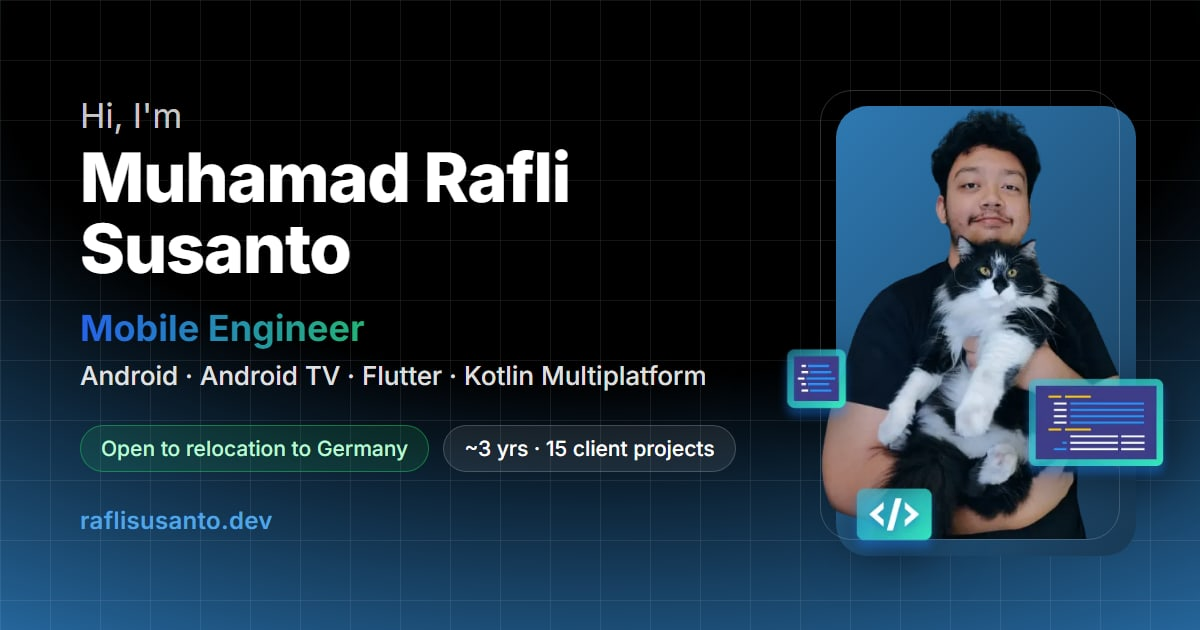
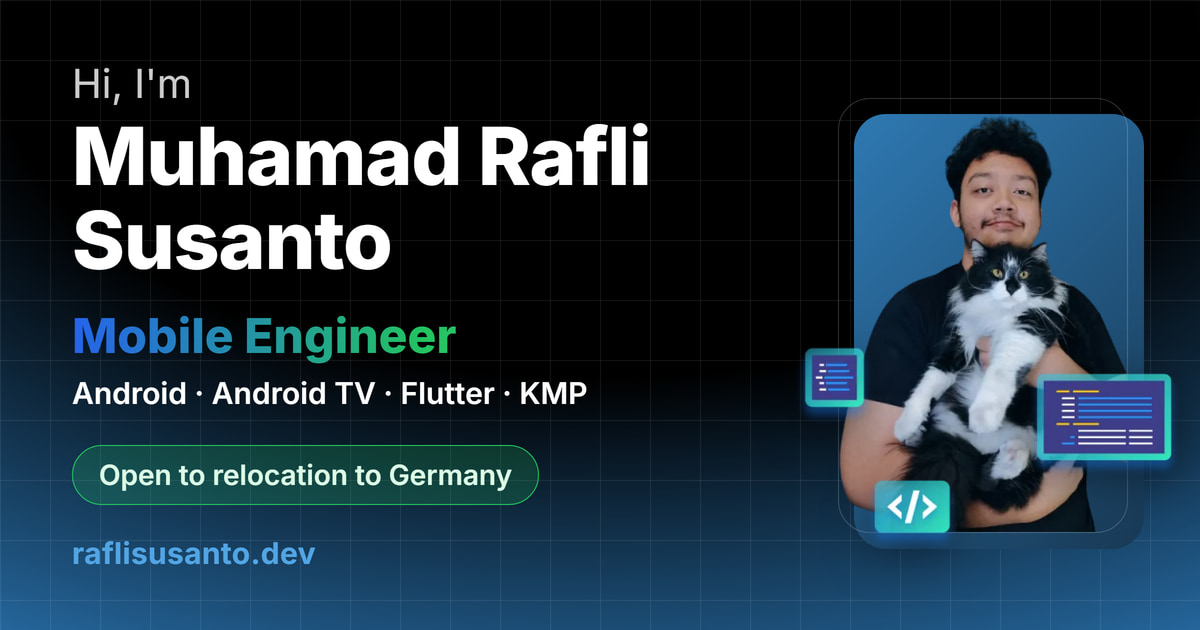
fix: sharper, more legible link-preview image
LinkedIn shows previews at ~500px wide and recompresses them, which made
the small text unreadable. Larger, bolder text with fewer elements;
rendered at 2x and downscaled; JPEG q92 with 4:4:4 chroma so colored
text edges stay crisp. ?v=2 on the URL busts LinkedIn's image cache.

Changed region(s): [[0.6475, 0.1508, 0.9867, 0.8746], [0.0617, 0.4825, 0.6167, 0.9048], [0.0617, 0.0905, 0.555, 0.4524]]

diff --git a/index.html b/index.html
@@ -21,12 +21,12 @@
       property="og:description"
       content="Production Android, Android TV, Flutter and Kotlin Multiplatform apps for retail, e-commerce, fintech and media. Open to relocation to Germany."
     />
-    <meta property="og:image" content="https://raflisusanto.dev/og-image.jpg" />
+    <meta property="og:image" content="https://raflisusanto.dev/og-image.jpg?v=2" />
     <meta property="og:image:width" content="1200" />
     <meta property="og:image:height" content="630" />
     <meta property="og:image:alt" content="Muhamad Rafli Susanto, Mobile Engineer (Android, Android TV, Flutter, Kotlin Multiplatform). Open to relocation to Germany." />
     <meta name="twitter:card" content="summary_large_image" />
-    <meta name="twitter:image" content="https://raflisusanto.dev/og-image.jpg" />
+    <meta name="twitter:image" content="https://raflisusanto.dev/og-image.jpg?v=2" />
 
     <link rel="preconnect" href="https://fonts.googleapis.com" />
     <link rel="preconnect" href="https://fonts.gstatic.com" crossorigin />
